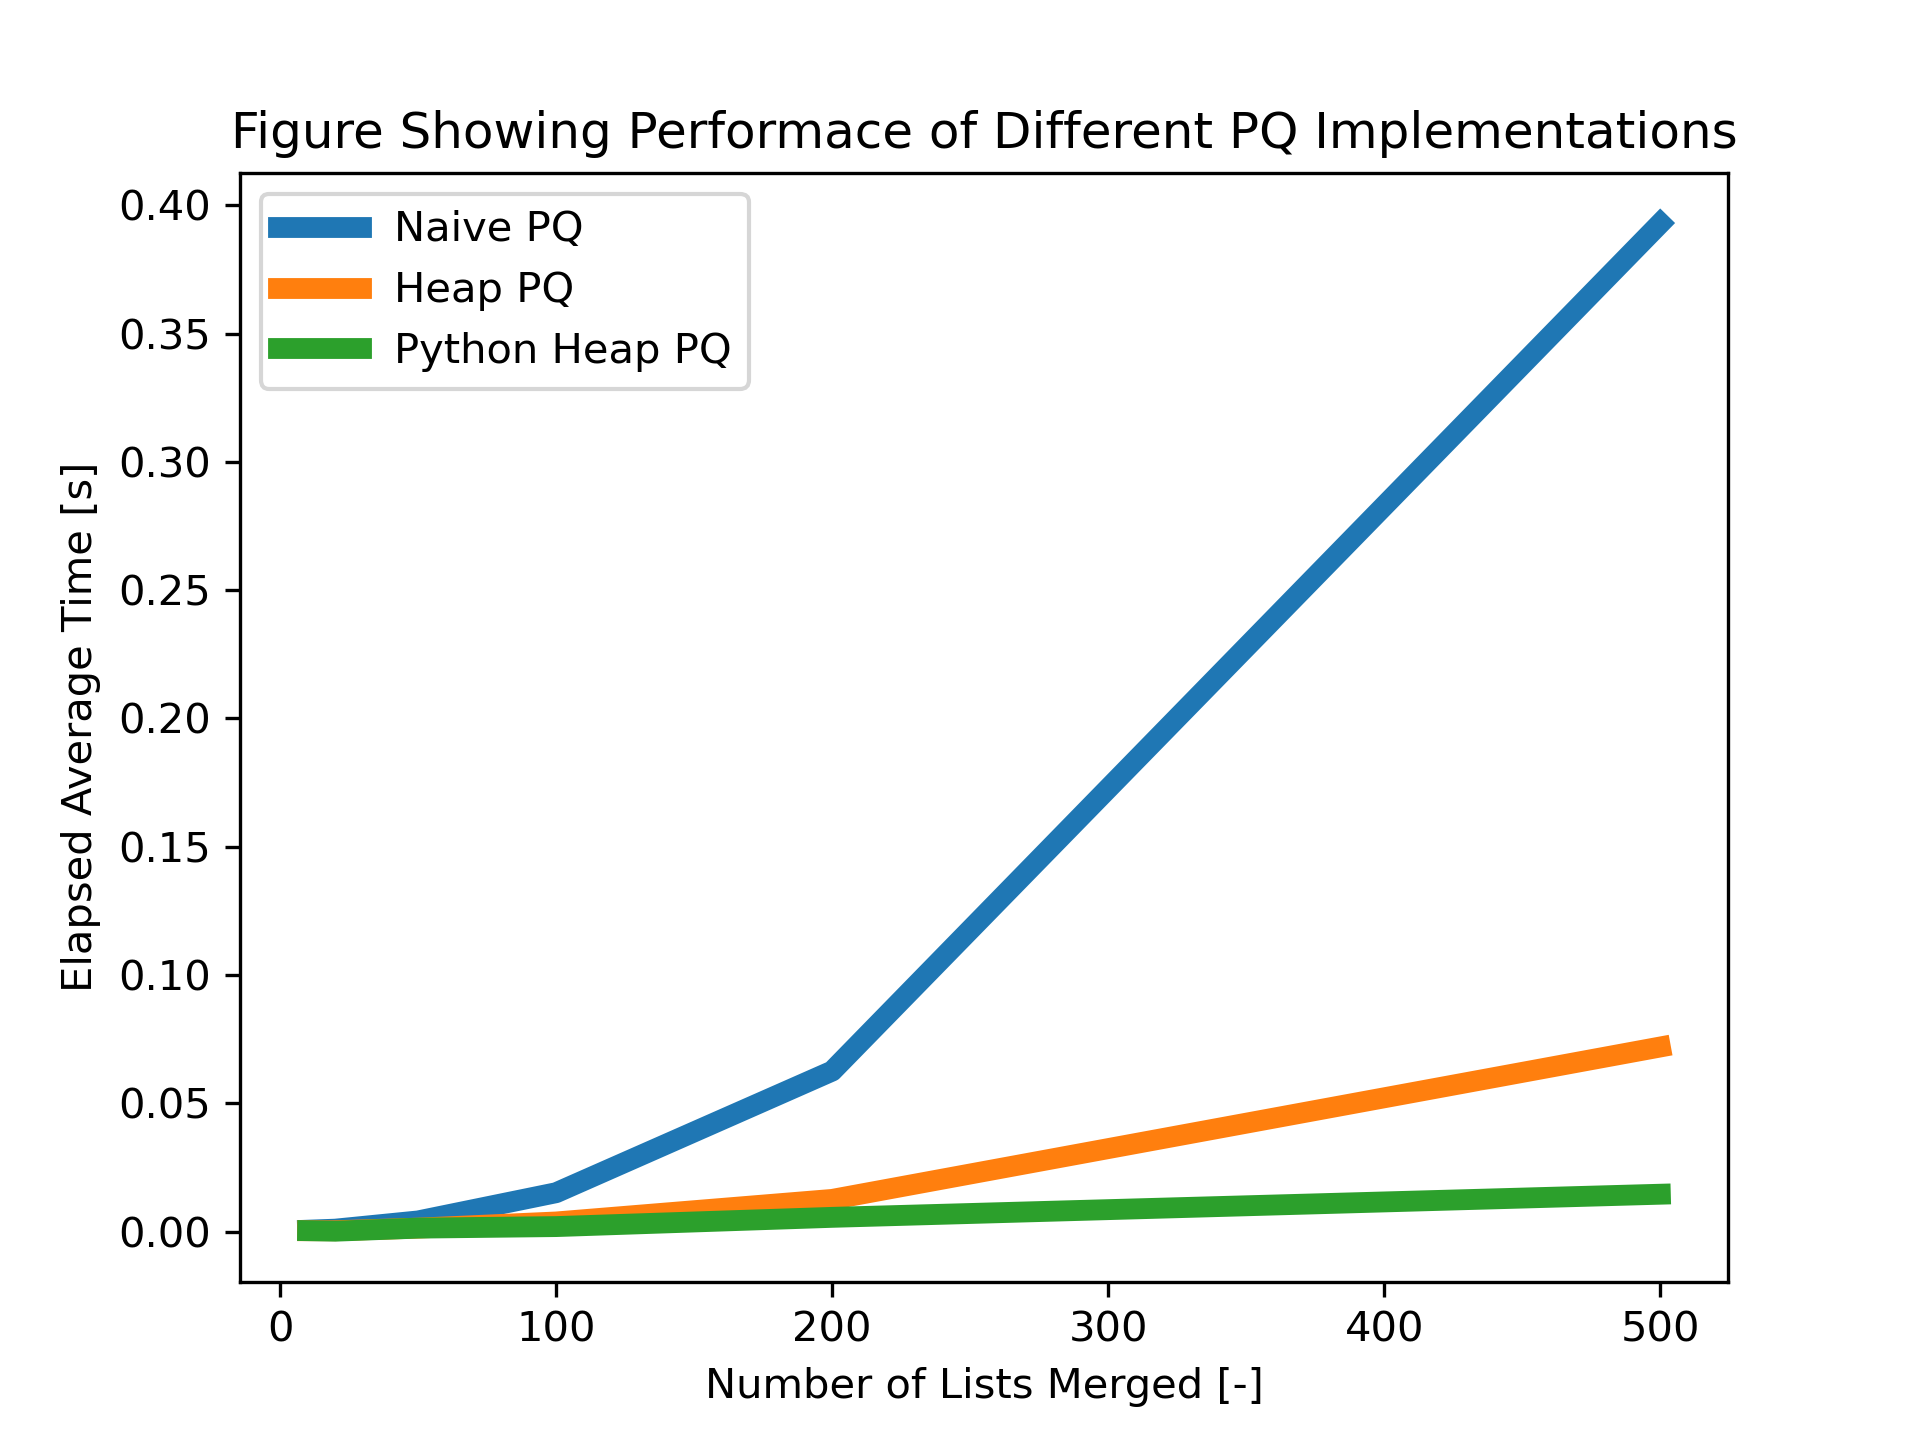
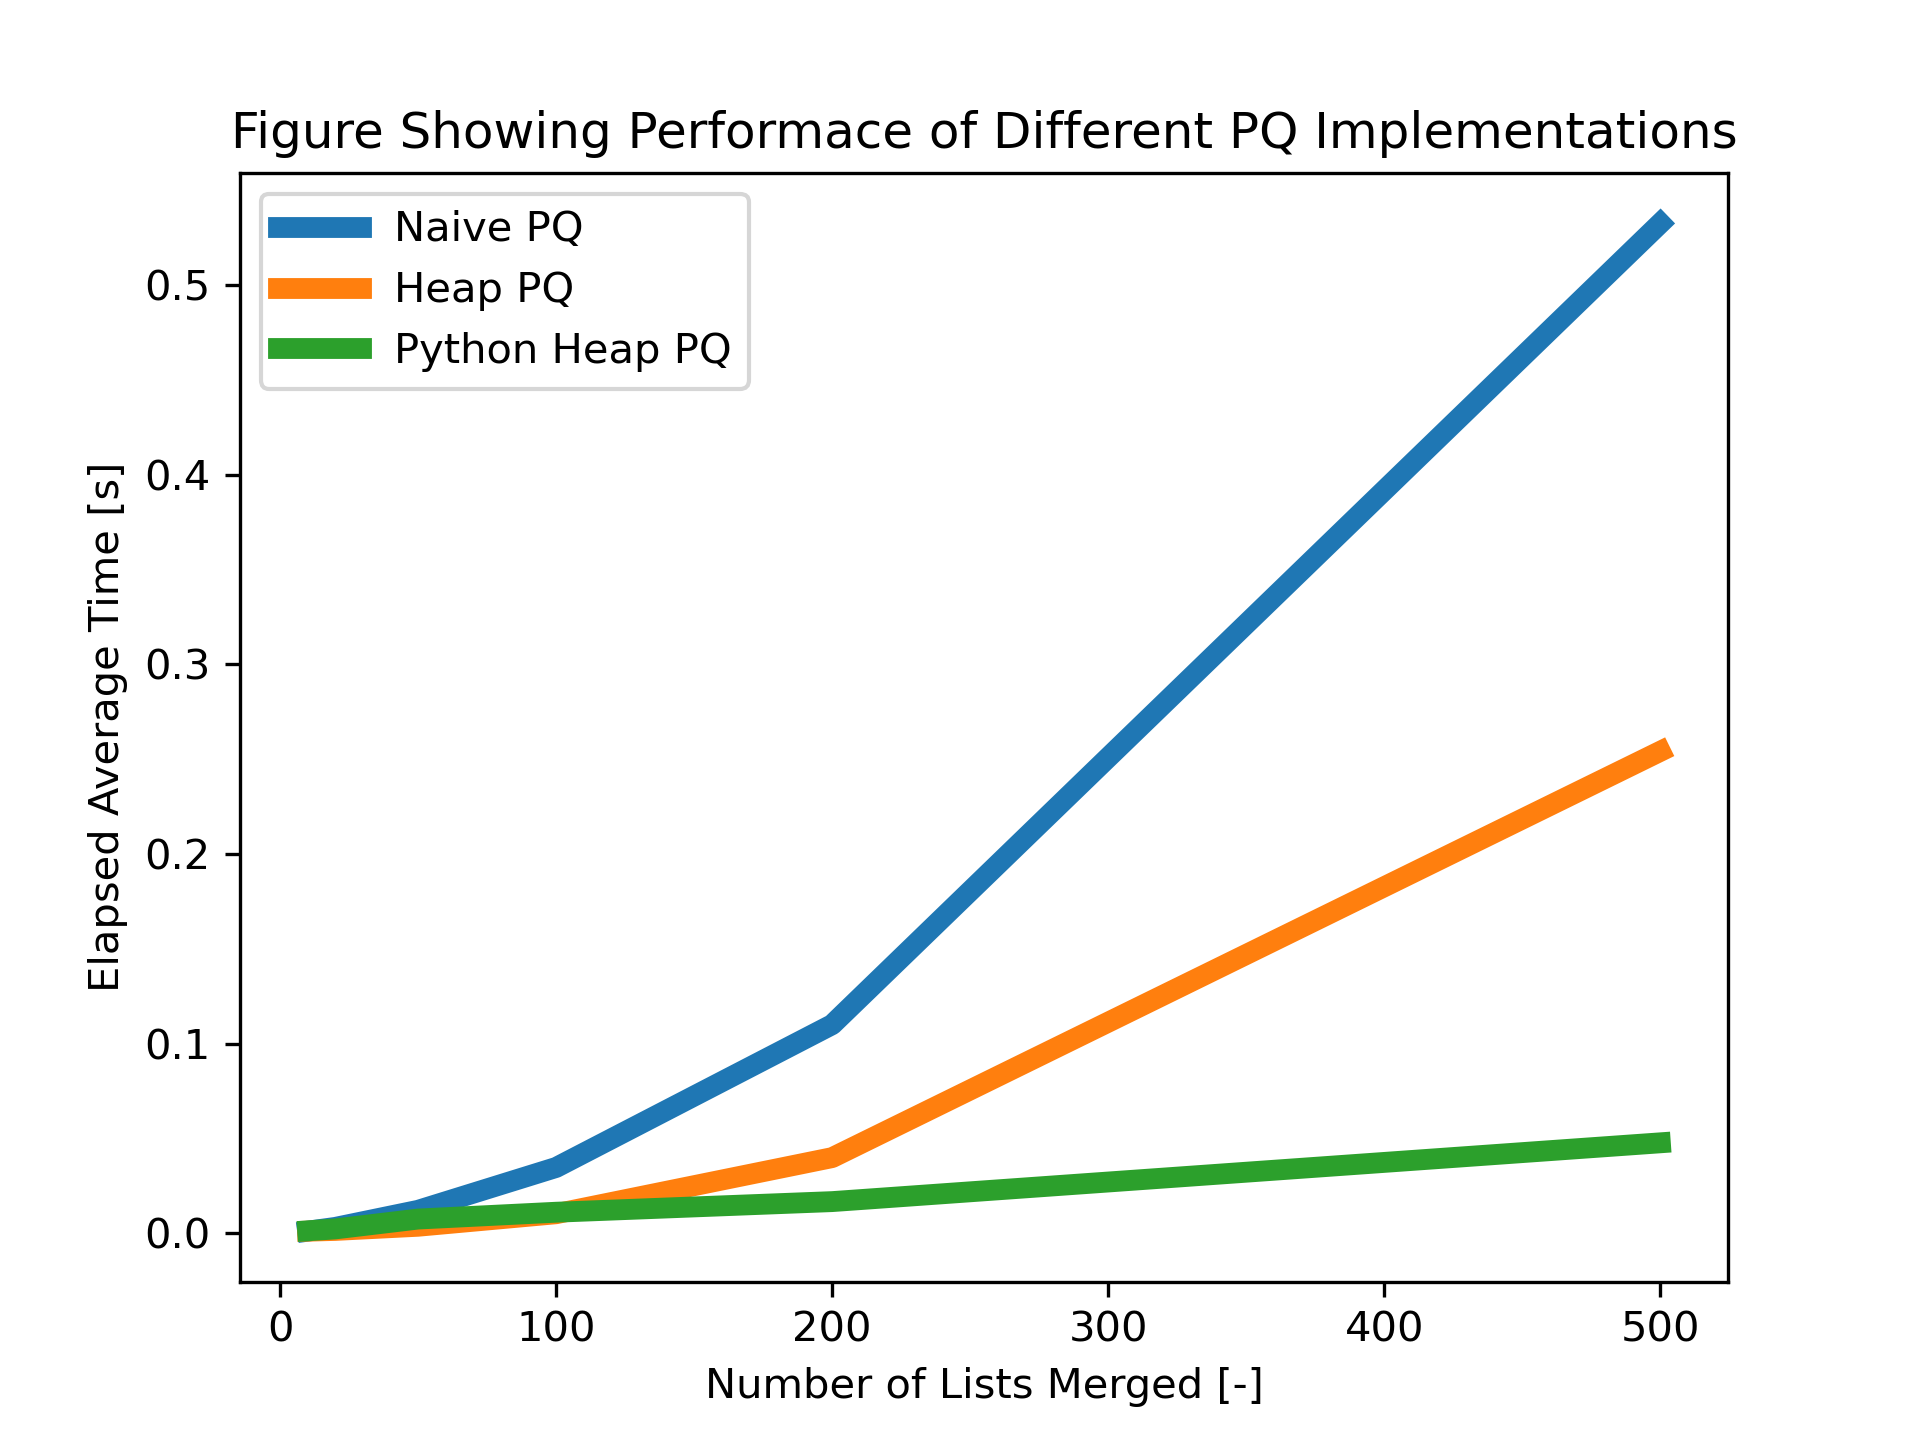
implemented new naive pq

diff --git a/homework/HW6/P3.py b/homework/HW6/P3.py
@@ -60,9 +60,9 @@ def timeit(ns=(10, 20, 50, 100, 200, 500), pqclass=PriorityQueue, n_average=5):
     return elapsed
 
 
-class NaivePriorityQueue(PriorityQueue):
+class NaivePriorityQueue2(PriorityQueue):
     def put(self,val):
-        if len(self.elements) == self.max_size:
+        if len(self.elements) >= self.max_size:
             raise IndexError('Full priority queue')
         self.elements.append(val)
 
@@ -90,13 +90,32 @@ class NaivePriorityQueue(PriorityQueue):
                 j=i
         return j        
 
+class NaivePriorityQueue(PriorityQueue):
+    def put(self,val):
+        if len(self.elements) >= self.max_size:
+            raise IndexError('Full priority queue')
+        self.elements.append(val)
+        self.elements.sort()
+
+    def get(self):
+        if len(self.elements)==0:
+            raise IndexError('Empty priority queue')
+        val=self.elements[0]
+        del self.elements[0]
+        return val
+
+    def peek(self):
+        if len(self.elements)==0:
+            raise IndexError('Empty priority queue')
+        return self.elements[0]  
+
 class HeapPriorityQueue(PriorityQueue):
     def __init__(self,max_size) -> None:
         self.elements=MinHeap([])
         self.max_size = max_size
 
     def put(self, val):
-        if self.elements.size == self.max_size:
+        if self.elements.size >= self.max_size:
             raise IndexError('Full priority queue')
         self.elements.heappush(val)
     def get(self):
@@ -115,7 +134,7 @@ class PythonHeapPriorityQueue(PriorityQueue):
         self.max_size = max_size
 
     def put(self, val):
-        if len(self.elements) == self.max_size:
+        if len(self.elements) >= self.max_size:
             raise IndexError('Full priority queue')
         h.heappush(self.elements,val)
     def get(self):
@@ -130,12 +149,12 @@ class PythonHeapPriorityQueue(PriorityQueue):
 
 if __name__ == "__main__":
     q = NaivePriorityQueue(2)
-    q = HeapPriorityQueue(2)
-    q = PythonHeapPriorityQueue(2)
+    # q = HeapPriorityQueue(2)
+    # q = PythonHeapPriorityQueue(2)
 
 
-    q.put(1)
     q.put(2)
+    q.put(1)
     try:
         q.put(3)
     except Exception as exc:
